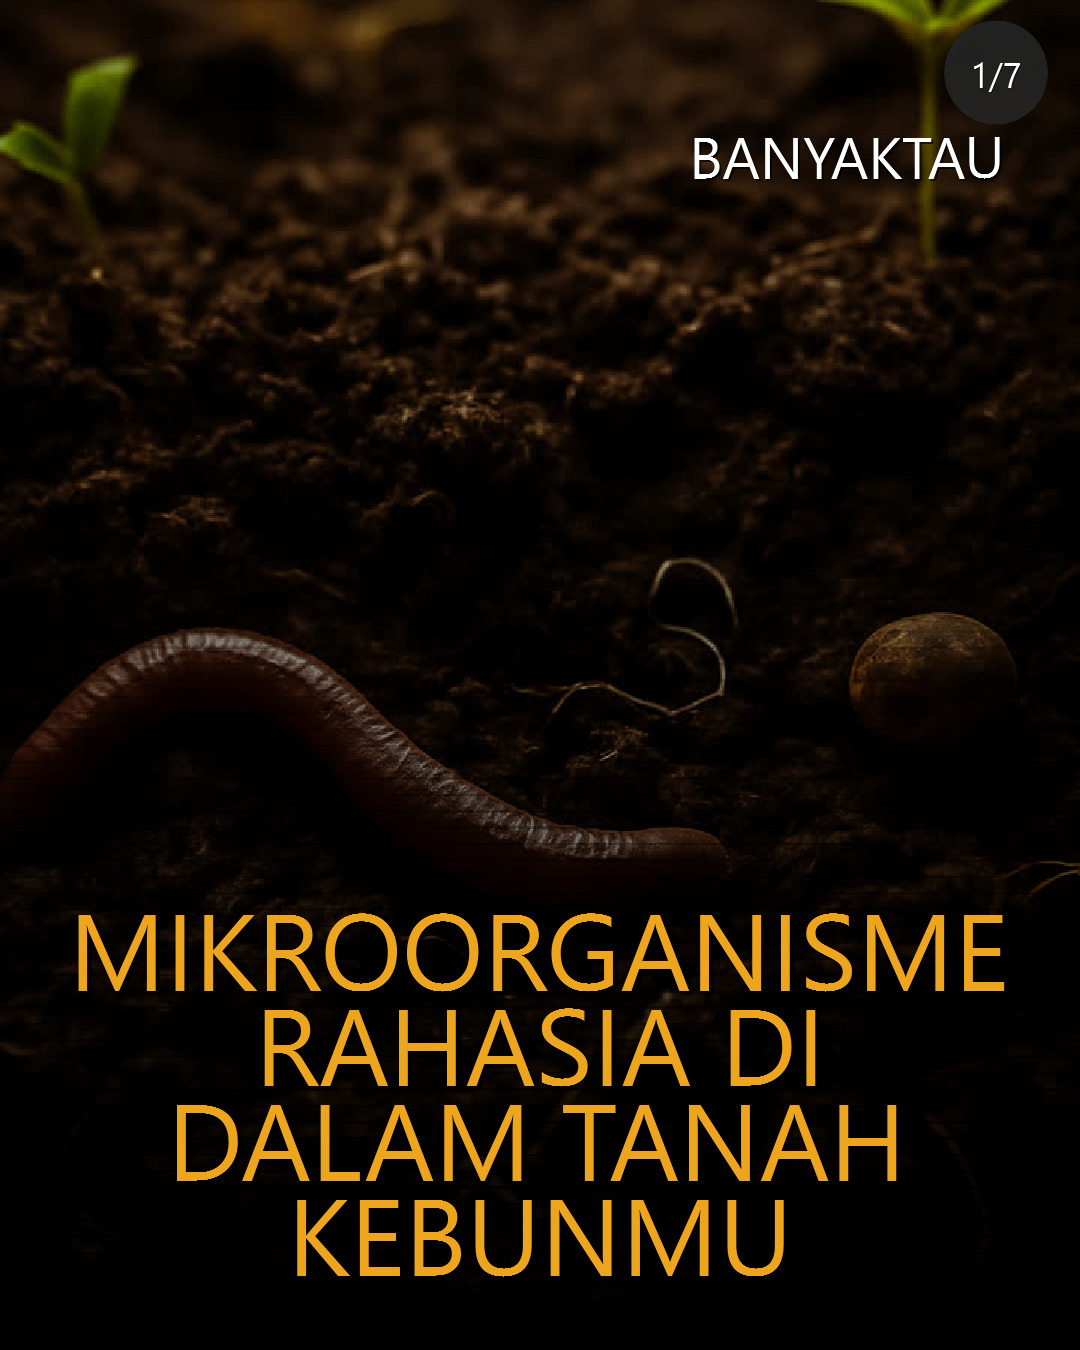
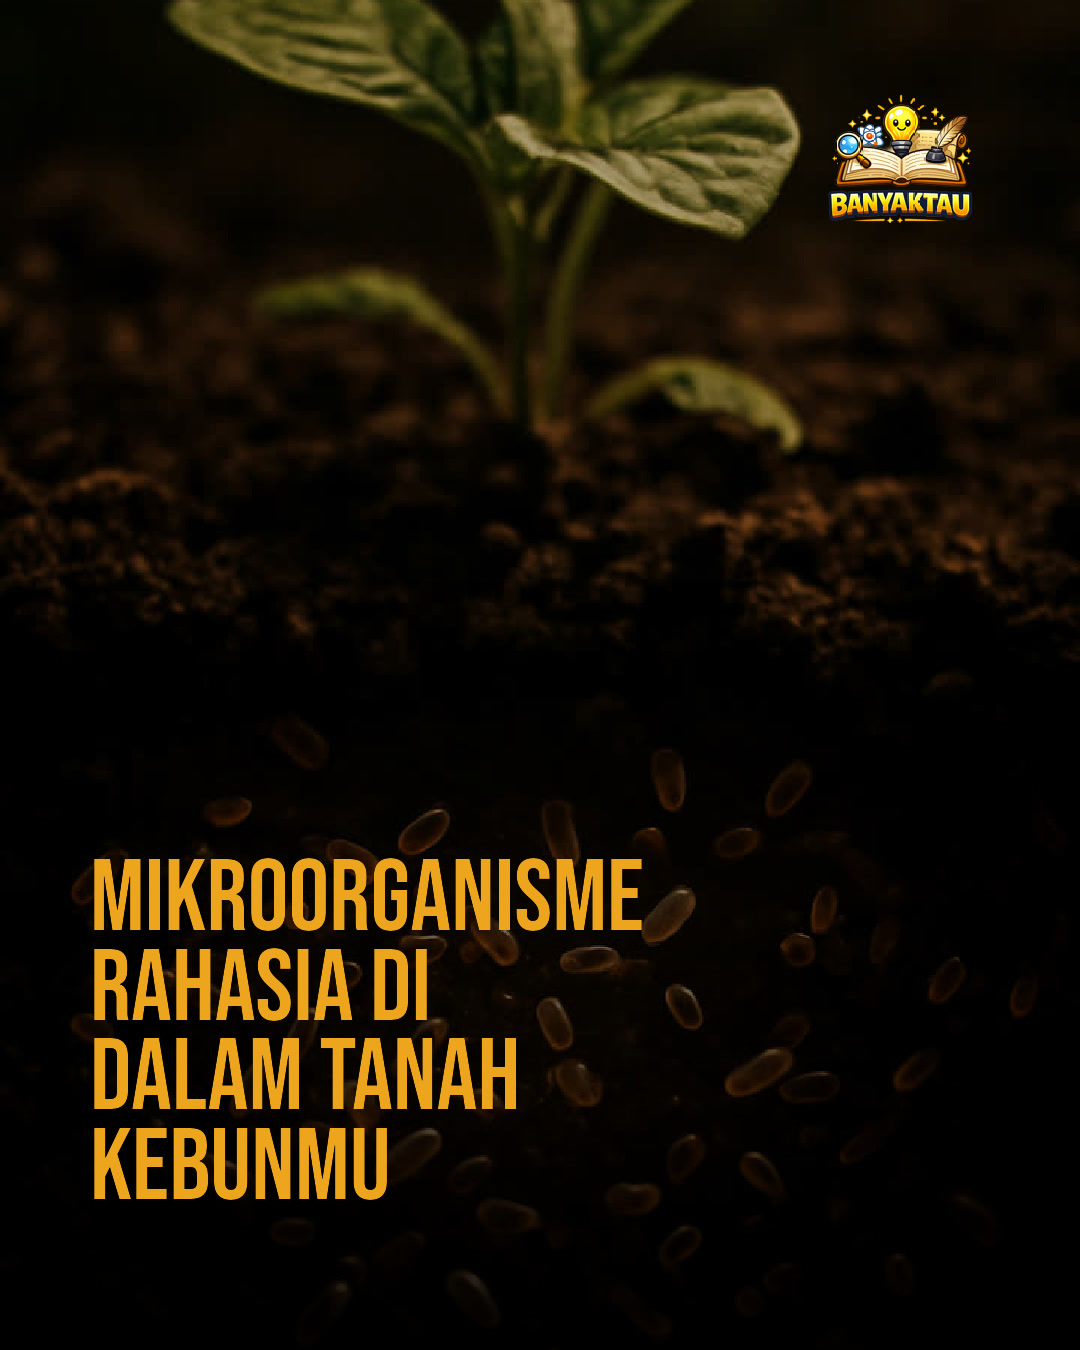
chore: update config and scratch assets

diff --git a/scratch/demo-ffmpeg-bebas.js b/scratch/demo-ffmpeg-bebas.js
@@ -1,0 +1,205 @@
+import { spawnSync } from "node:child_process";
+import path from "node:path";
+import fsSync from "node:fs";
+
+// Background images (clean source images from the workspace)
+const bgImage1 = path.resolve("generated", "images", "carousel-demo-scene-1-kenapa-segel-botol-plastik-penting.jpg");
+const bgImage2 = path.resolve("generated", "images", "carousel-demo-scene-2-apa-fungsi-segel-botol.jpg");
+const logoImage = path.resolve("public", "assets", "banyaktau-logo-watermark.png");
+
+// Fonts
+const titleFont = path.resolve("public", "assets", "fonts", "BebasNeue-Regular.otf");
+const bodyFont = path.resolve("public", "assets", "fonts", "PlusJakartaSans-Bold.ttf");
+
+// Outputs
+const outputFile1 = path.resolve("public", "demo-bebas-slide1.jpg");
+const outputFile2 = path.resolve("public", "demo-bebas-slide2.jpg");
+
+function escapeFfmpegPath(filePath) {
+  return path.resolve(filePath)
+    .replace(/\\/g, "/")
+    .replace(/:/g, "\\:")
+    .replace(/'/g, "\\'");
+}
+
+function wrapText(text, maxChars) {
+  const words = text.split(/\s+/).filter(Boolean);
+  const lines = [];
+  let current = "";
+  for (const w of words) {
+    const test = current ? current + " " + w : w;
+    if (test.length > maxChars && current) {
+      lines.push(current);
+      current = w;
+    } else {
+      current = test;
+    }
+  }
+  if (current) lines.push(current);
+  return lines;
+}
+
+async function renderSlide1() {
+  console.log("\n--- RENDERING SLIDE 1 (Title Slide - Clean Gold) ---");
+  const escapedTitleFont = escapeFfmpegPath(titleFont);
+
+  const titleLines = [
+    "TEKNOLOGI",
+    "KUNO YANG HILANG",
+    "DAN BELUM BISA",
+    "DIBUAT LAGI"
+  ];
+
+  const filters = [];
+  
+  // 1. Scale and crop background
+  filters.push("[0:v]scale=1080:1350:force_original_aspect_ratio=increase,crop=1080:1350[scaled]");
+  
+  // 2. Dark overlay (55% opacity)
+  filters.push("[scaled]drawbox=y=0:color=black@0.55:width=iw:height=ih:t=fill[darkened]");
+
+  // 3. Overlay BanyakTau logo (top right)
+  filters.push(`[1:v]scale=180:-1,format=rgba[logo]`);
+  filters.push(`[darkened][logo]overlay=1080-90-w:90[bg_final]`);
+
+  // 4. Draw title lines directly on the background
+  let lastLabel = "bg_final";
+  const titleSize = 130;
+  const titleLineHeight = 115;
+  const startY = 1350 - 90 - (titleLines.length * titleLineHeight) + 15;
+
+  for (let i = 0; i < titleLines.length; i++) {
+    const line = titleLines[i].toUpperCase();
+    const currentY = startY + i * titleLineHeight;
+    const nextLabel = `title_line${i}`;
+    const escapedText = line.replace(/:/g, "\\:").replace(/'/g, "\\'");
+    filters.push(`[${lastLabel}]drawtext=fontfile='${escapedTitleFont}':text='${escapedText}':fontsize=${titleSize}:fontcolor=0xeda51d:x=90:y=${currentY}[${nextLabel}]`);
+    lastLabel = nextLabel;
+  }
+
+  const finalFilter = filters.join(";");
+
+  const result = spawnSync("ffmpeg", [
+    "-y",
+    "-i", bgImage1,
+    "-i", logoImage,
+    "-filter_complex", finalFilter,
+    "-map", `[${lastLabel}]`,
+    "-frames:v", "1",
+    "-q:v", "2",
+    outputFile1
+  ], { encoding: "utf8", windowsHide: true });
+
+  if (result.status === 0) {
+    console.log("Slide 1 generated successfully!");
+    console.log("Saved to:", outputFile1);
+  } else {
+    console.error("FFmpeg Slide 1 error:", result.stderr || result.error?.message);
+  }
+}
+
+async function renderSlide2() {
+  console.log("\n--- RENDERING SLIDE 2 (Content Slide - Clean Gold & Italic White) ---");
+  const escapedTitleFont = escapeFfmpegPath(titleFont);
+  const escapedBodyFont = escapeFfmpegPath(bodyFont);
+
+  const titleText = "ROMAN CONCRETE";
+  const bodyText = "BETON ROMAWI DIGUNAKAN UNTUK MEMBANGUN PELABUHAN, KUIL, DAN BANGUNAN YANG MASIH BERTAHAN HINGGA SEKARANG. BERBEDA DENGAN BETON MODERN YANG BISA RETAK, MATERIAL INI JUSTRU MENGUAT SAAT TERKENA AIR LAUT.";
+
+  // Dynamic Title Sizing Heuristic
+  let titleSize = 135;
+  if (titleText.length > 25) {
+    titleSize = 90;
+  } else if (titleText.length > 15) {
+    titleSize = 110;
+  }
+
+  // Dynamic Body Sizing Heuristic
+  let bodySize = 42;
+  let wrapLimit = 31;
+  if (bodyText.length > 250) {
+    bodySize = 32;
+    wrapLimit = 38;
+  } else if (bodyText.length > 150) {
+    bodySize = 36;
+    wrapLimit = 34;
+  }
+
+  const bodyLines = wrapText(bodyText, wrapLimit);
+
+  const filters = [];
+  
+  // 1. Scale and crop background
+  filters.push("[0:v]scale=1080:1350:force_original_aspect_ratio=increase,crop=1080:1350[scaled]");
+  
+  // 2. Dark overlay (55% opacity)
+  filters.push("[scaled]drawbox=y=0:color=black@0.55:width=iw:height=ih:t=fill[darkened]");
+
+  // 3. Overlay BanyakTau logo (top right)
+  filters.push(`[1:v]scale=180:-1,format=rgba[logo]`);
+  filters.push(`[darkened][logo]overlay=1080-90-w:90[bg_final]`);
+
+  // 4. Draw centered title in solid gold directly on the background
+  const titleLineHeight = Math.round(titleSize * 0.95);
+  const titleBottomY = 820;
+  const titleY = titleBottomY - 1 * titleLineHeight; // ROMAN CONCRETE is 1 line
+  filters.push(`[bg_final]drawtext=fontfile='${escapedTitleFont}':text='${titleText}':fontsize=${titleSize}:fontcolor=0xeda51d:x=(w-text_w)/2:y=${titleY}[bg_with_title]`);
+
+  // 5. Draw white body lines slanted to the right (shx=0.10) dynamically below the title
+  let lastLabel = "bg_with_title";
+  const bodyLineHeight = Math.round(bodySize * 1.28);
+  const startY = titleBottomY + 6;
+
+  for (let i = 0; i < bodyLines.length; i++) {
+    const line = bodyLines[i].toUpperCase();
+    const currentY = startY + i * bodyLineHeight;
+    
+    const textCanvasLabel = `tcanvas${i}`;
+    const drawnTextLabel = `tdrawn${i}`;
+    const slantedLabel = `tslant${i}`;
+    const nextLabel = `body${i}`;
+
+    const escapedText = line.replace(/:/g, "\\:").replace(/'/g, "\\'");
+    
+    filters.push(`color=color=black@0.0:size=1080x1350,format=rgba[${textCanvasLabel}]`);
+    filters.push(`[${textCanvasLabel}]drawtext=fontfile='${escapedBodyFont}':text='${escapedText}':fontsize=${bodySize}:fontcolor=white:x=(w-text_w)/2:y=${currentY}[${drawnTextLabel}]`);
+    filters.push(`[${drawnTextLabel}]shear=shx=0.10:fillcolor=black@0.0[${slantedLabel}]`);
+    const overlayX = Math.round(0.10 * (currentY - 1350 / 2));
+    filters.push(`[${lastLabel}][${slantedLabel}]overlay=${overlayX}:0:format=rgb[${nextLabel}]`);
+    
+    lastLabel = nextLabel;
+  }
+
+  const finalFilter = filters.join(";");
+
+  const result = spawnSync("ffmpeg", [
+    "-y",
+    "-i", bgImage2,
+    "-i", logoImage,
+    "-filter_complex", finalFilter,
+    "-map", `[${lastLabel}]`,
+    "-frames:v", "1",
+    "-q:v", "2",
+    outputFile2
+  ], { encoding: "utf8", windowsHide: true });
+
+  if (result.status === 0) {
+    console.log("Slide 2 generated successfully!");
+    console.log("Saved to:", outputFile2);
+  } else {
+    console.error("FFmpeg Slide 2 error:", result.stderr || result.error?.message);
+  }
+}
+
+async function main() {
+  console.log("Checking background image 1:", fsSync.existsSync(bgImage1));
+  console.log("Checking background image 2:", fsSync.existsSync(bgImage2));
+  console.log("Checking logo image:", fsSync.existsSync(logoImage));
+  console.log("Checking title font file:", fsSync.existsSync(titleFont));
+  console.log("Checking body font file:", fsSync.existsSync(bodyFont));
+
+  await renderSlide1();
+  await renderSlide2();
+}
+
+main().catch(console.error);

diff --git a/scratch/generate-unique-carousel.js b/scratch/generate-unique-carousel.js
@@ -1,0 +1,89 @@
+import { renderCarouselSlide } from "../src/carousel-concept.js";
+import path from "node:path";
+import fs from "node:fs/promises";
+import fsSync from "node:fs";
+
+// Unique, high-curiosity item draft about Infantile Amnesia
+const item = {
+  id: "carousel_amnesia_bayi",
+  title: "Misteri Amnesia Bayi",
+  input: { topic: "kenapa kita lupa memori saat bayi" },
+  plan: {
+    hook: "Kenapa tidak ada satu pun manusia yang ingat memori di bawah usia 3 tahun?",
+    summary: "Otak bayi tumbuh sangat cepat sehingga koneksi memori lama diformat ulang demi sel baru.",
+    scenes: []
+  }
+};
+
+const carouselPlan = {
+  title: "Misteri Amnesia Bayi",
+  slideCount: 6,
+  slides: [
+    {
+      index: 1,
+      type: "title",
+      titleText: "MISTERI AMNESIA BAYI"
+    },
+    {
+      index: 2,
+      type: "content",
+      titleText: "MISTERI MEMORI YANG HILANG",
+      bodyText: "KENAPA KITA TIDAK BISA MENGINGAT APA PUN YANG TERJADI SEBELUM USIA TIGA TAHUN? SEMUA ORANG MENGALAMINYA."
+    },
+    {
+      index: 3,
+      type: "content",
+      titleText: "OTAK BAYI TUMBUH TERLALU CEPAT",
+      bodyText: "HIPOKAMPUS SEBAGAI PUSAT MEMORI OTAK MANUSIA MEMPRODUKSI SEL SARAF BARU SECARA BESAR-BESARAN PADA TAHUN-TAHUN AWAL KEHIDUPAN KITA. PROSES PERTUMBUHAN NEURON BARU INI SANGAT CEPAT DAN DISEBUT SEBAGAI NEUROGENESIS, YANG MANA PADA AKHIRNYA AKAN MENGGANTIKAN ATAU MENIMPA STRUKTUR JARINGAN KONEKSI LAMA SEHINGGA SEMUA MEMORI AWAL MASA KECIL KITA SEOLAH-OLAH DI-FORMAT ULANG HINGGA BERSIH TANPA BEKAS."
+    },
+    {
+      index: 4,
+      type: "content",
+      titleText: "SEL BARU YANG SANGAT BANYAK INI MENGHAPUS DATA LAMA",
+      bodyText: "PERTUMBUHAN SEL BARU YANG SANGAT CEPAT INI MEMUTUSKAN KONEKSI MEMORI SEBELUMNYA DAN MENIMPA DATA LAMA."
+    },
+    {
+      index: 5,
+      type: "content",
+      titleText: "PERKEMBANGAN BAHASA DAN DIRI",
+      bodyText: "MEMORI MEMBUTUHKAN KONSEP DIRI DAN BAHASA UNTUK DISIMPAN JANGKA PANJANG. BAYI BELUM MEMILIKI KEDUANYA."
+    },
+    {
+      index: 6,
+      type: "content",
+      titleText: "MISTERI AMNESIA INFANTIL",
+      bodyText: "JADI, BUKAN KARENA MEMORINYA HILANG, TAPI KARENA ALAT PENYIMPANAN DI OTAK KITA SEDANG DI-FORMAT ULANG."
+    }
+  ]
+};
+
+async function main() {
+  await fs.mkdir(path.join("public", "amnesia"), { recursive: true });
+  console.log("Generating unique carousel slides...");
+
+  // Use Colosseum scene images as fallback backgrounds for this demo
+  const bg1 = path.resolve("generated", "images", "carousel-demo-scene-1-kenapa-segel-botol-plastik-penting.jpg");
+  const bg2 = path.resolve("generated", "images", "carousel-demo-scene-2-apa-fungsi-segel-botol.jpg");
+  const bg3 = path.resolve("generated", "images", "carousel-demo-scene-3-bagaimana-segel-membantu-keamanan.jpg");
+
+  const bgPaths = [bg1, bg2, bg3, bg1, bg2, bg3];
+
+  for (let i = 0; i < carouselPlan.slides.length; i++) {
+    const slide = carouselPlan.slides[i];
+    const bgPath = bgPaths[i] || bg1;
+    console.log(`Rendering Slide ${slide.index}...`);
+    const result = await renderCarouselSlide({
+      item,
+      carousel: carouselPlan,
+      slide,
+      backgroundPath: bgPath
+    });
+    const dest = path.join("public", "amnesia", `slide-${slide.index}.jpg`);
+    await fs.copyFile(result.path, dest);
+    console.log(`Saved Slide ${slide.index} to ${dest}`);
+  }
+
+  console.log("All unique carousel slides rendered successfully!");
+}
+
+main().catch(console.error);

diff --git a/scratch/test-font-load.js b/scratch/test-font-load.js
@@ -1,0 +1,20 @@
+import PImage from 'pureimage';
+import fsSync from 'fs';
+import path from 'path';
+
+const fontPath = 'public/assets/fonts/PlusJakartaSans-Bold.ttf';
+console.log('Font exists:', fsSync.existsSync(fontPath));
+
+try {
+  const font = PImage.registerFont(fontPath, 'TestJakarta');
+  console.log('registerFont returned:', typeof font);
+  if (typeof font.loadSync === 'function') {
+    font.loadSync();
+    console.log('loadSync succeeded');
+  } else if (typeof font.load === 'function') {
+    await new Promise((res, rej) => font.load(res));
+    console.log('load succeeded');
+  }
+} catch (e) {
+  console.error('Error loading font:', e);
+}

diff --git a/scratch/inspect-cjs.js b/scratch/inspect-cjs.js
@@ -1,0 +1,17 @@
+import fs from "node:fs";
+
+const content = fs.readFileSync("node_modules/pureimage/dist/index.esm.js", "utf8");
+console.log("ESM length:", content.length);
+
+const regex = /getPath\([^)]+\)/;
+const match = content.match(regex);
+if (match) {
+  console.log("Found getPath match at index:", match.index);
+  console.log("Snippet:", content.substring(match.index - 200, match.index + 800));
+} else {
+  const forEachIdx = content.indexOf("commands.forEach");
+  console.log("commands.forEach index:", forEachIdx);
+  if (forEachIdx !== -1) {
+    console.log("Snippet:", content.substring(forEachIdx - 200, forEachIdx + 600));
+  }
+}
